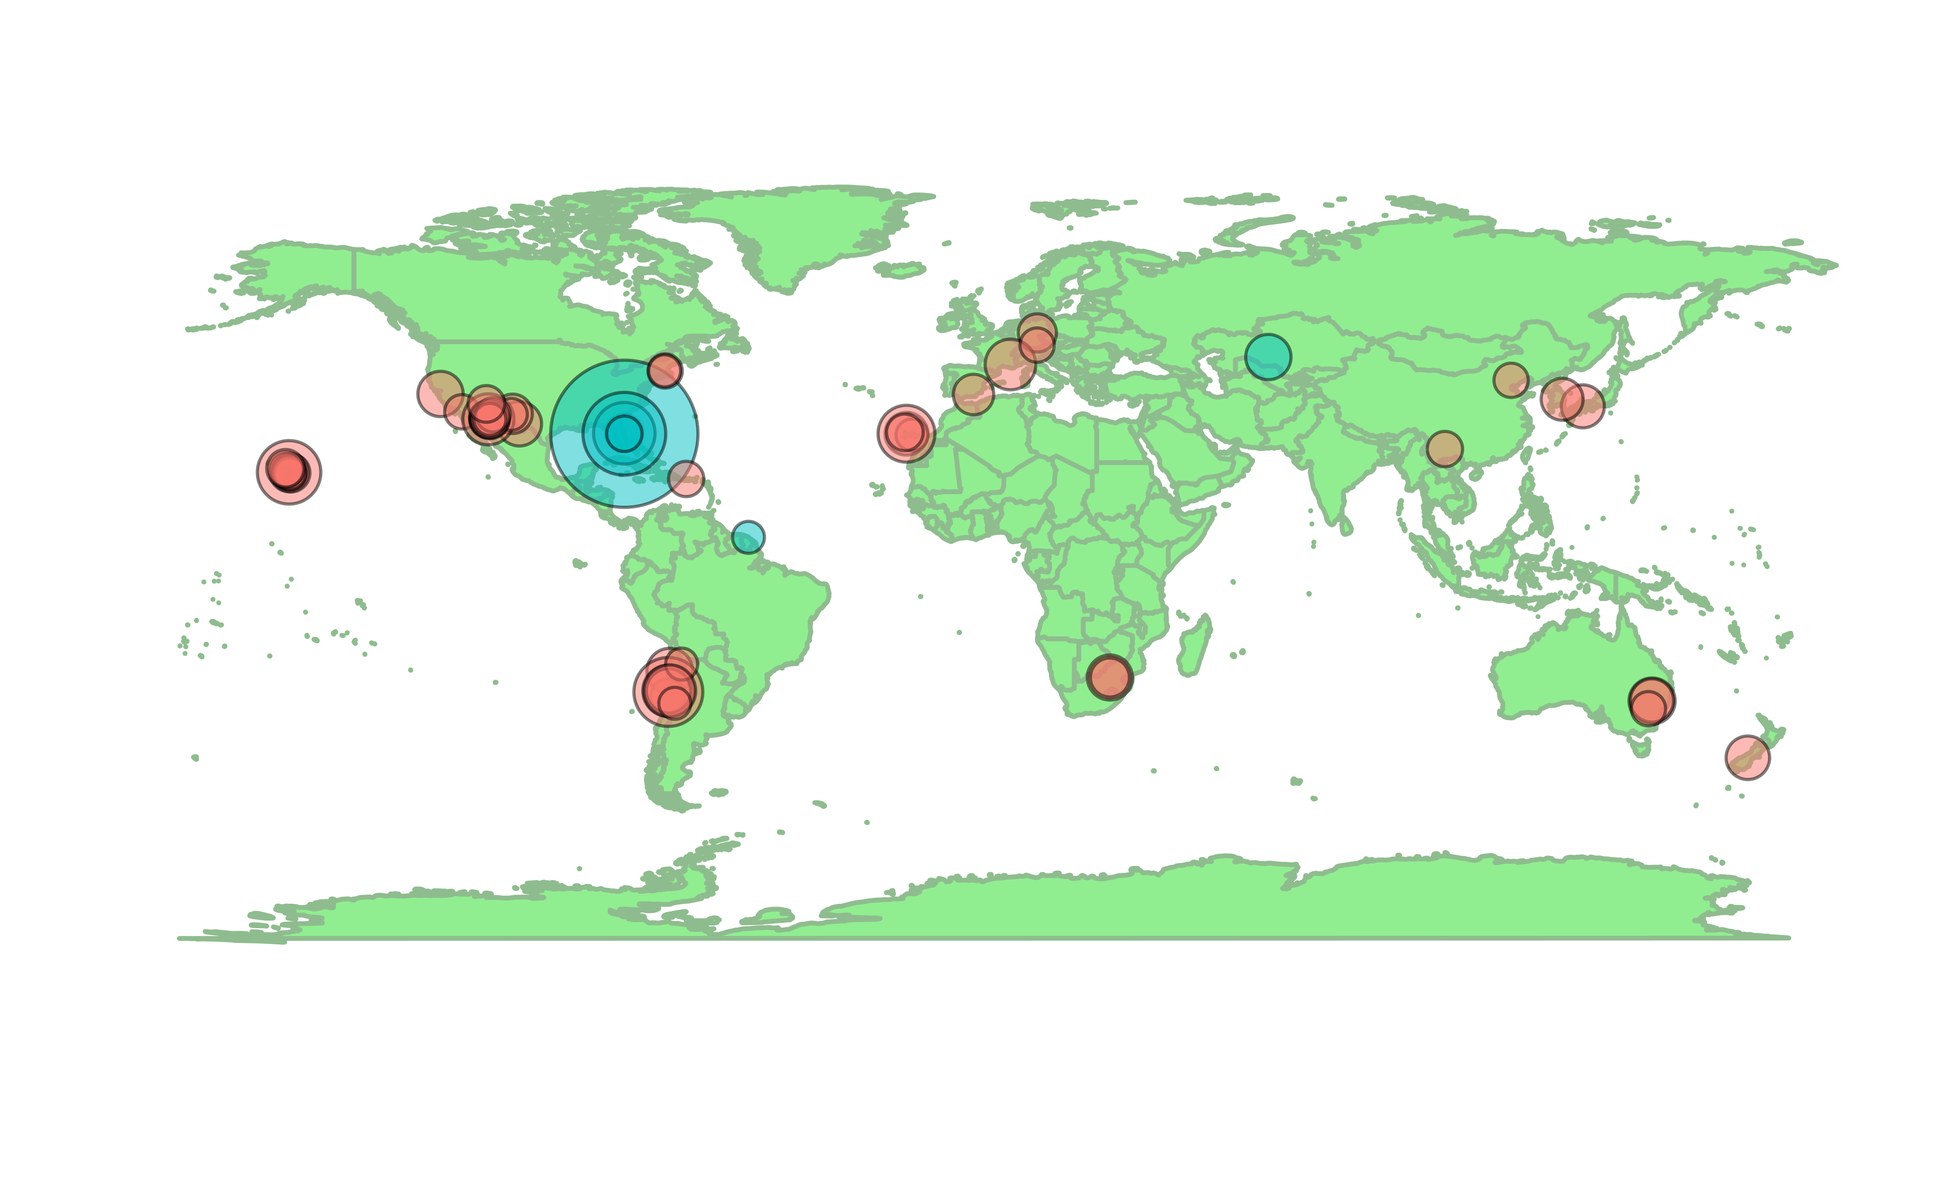
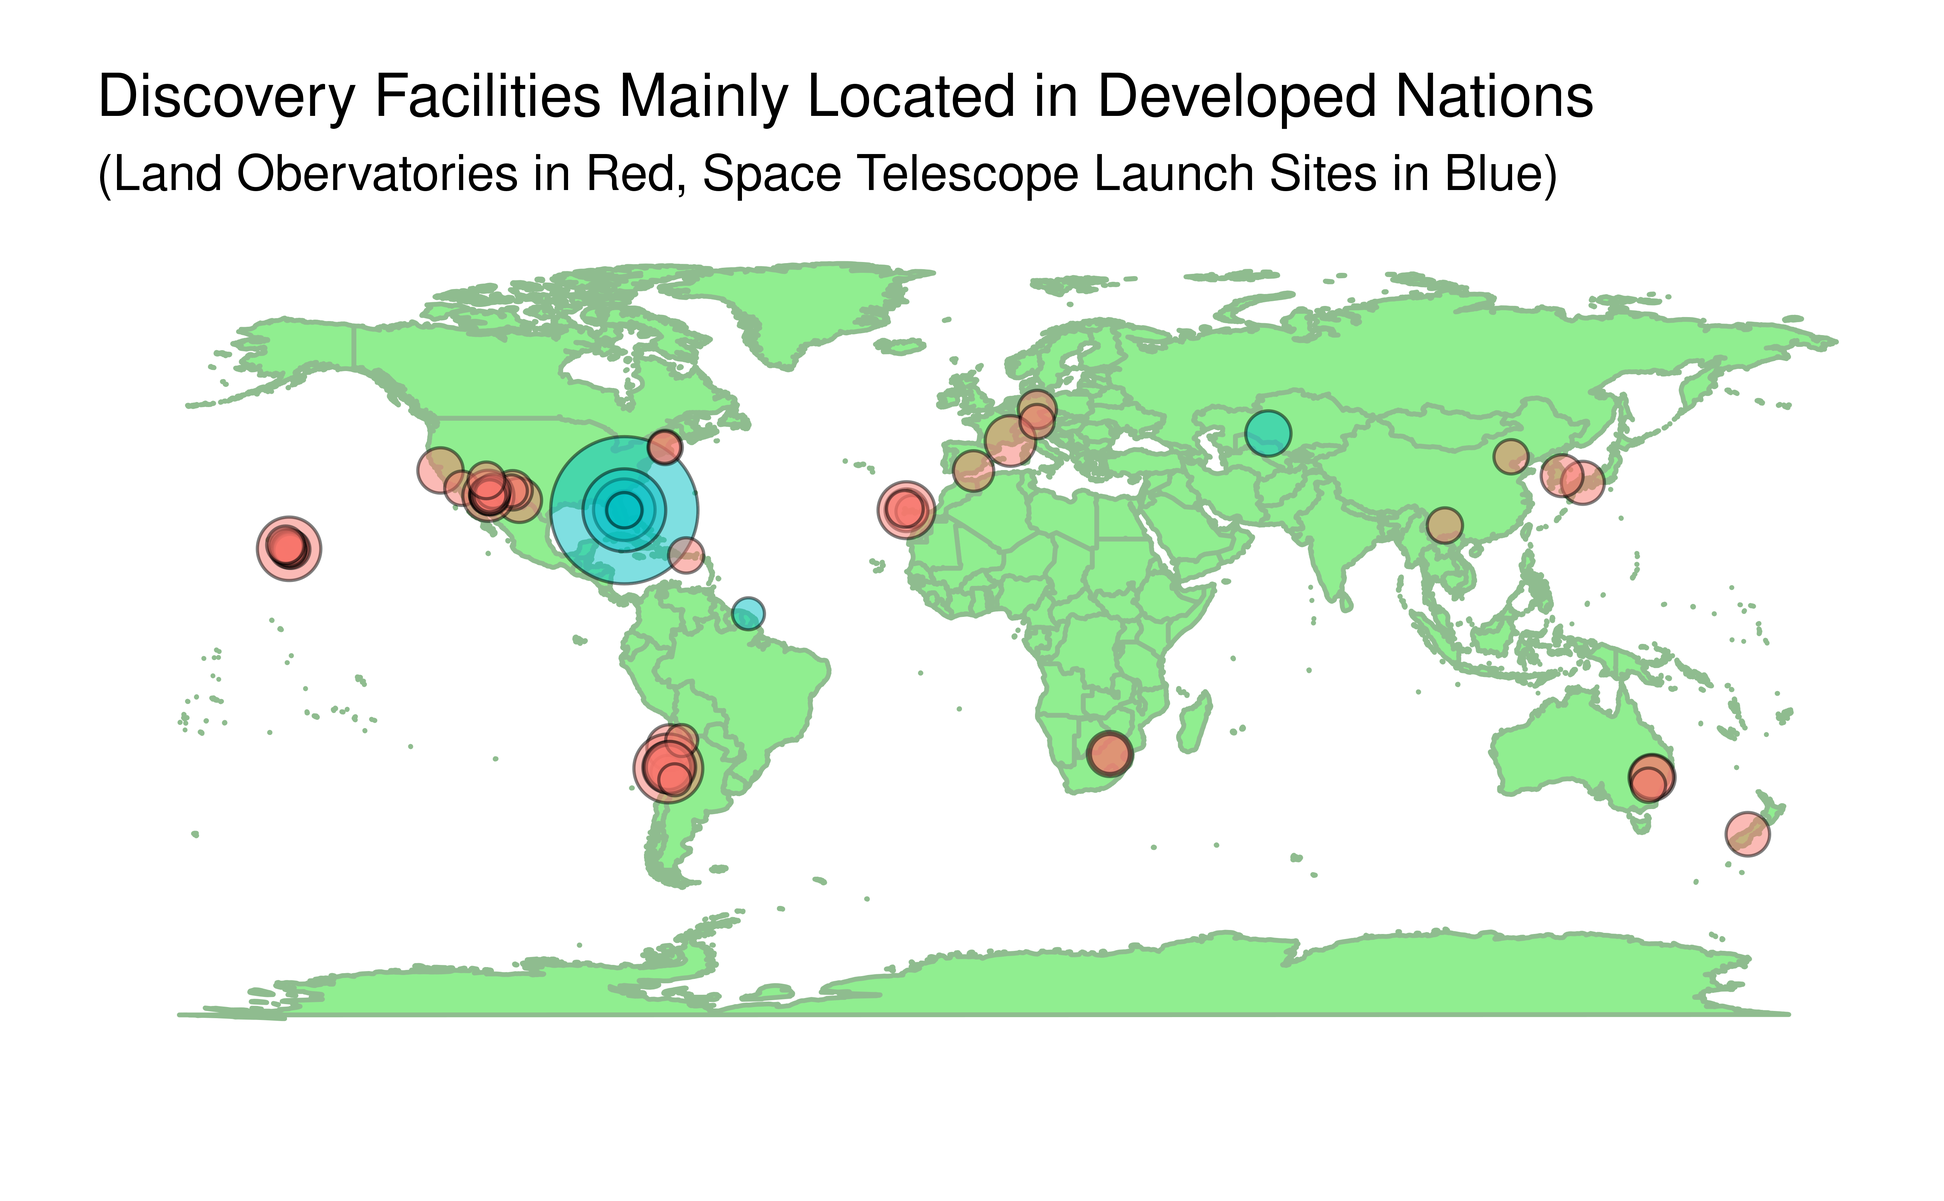
Add title and subtitle to still map of discovery facilities

Changed region(s): [[0.0311, 0.1247, 0.9644, 0.8726], [0.0311, 0.0623, 0.84, 0.0935], [0.0933, 0.5298, 0.1244, 0.561]]

diff --git a/presentation/presentation.html b/presentation/presentation.html
@@ -210,8 +210,8 @@ class: inverse, center, middle
 ### Interactive Leaflet Map: Location and Number of Discoveries
 
 
-<div id="htmlwidget-591cb61563aabd709545" style="width:80%;height:1112.4px;" class="leaflet html-widget"></div>
-<script type="application/json" data-for="htmlwidget-591cb61563aabd709545">{"x":{"options":{"crs":{"crsClass":"L.CRS.EPSG3857","code":null,"proj4def":null,"projectedBounds":null,"options":{}}},"setView":[[-13.7,13.3],2,[]],"calls":[{"method":"addProviderTiles","args":["Stamen.Terrain",null,null,{"errorTileUrl":"","noWrap":false,"detectRetina":false}]},{"method":"addProviderTiles","args":["Stamen.TerrainLabels",null,null,{"errorTileUrl":"","noWrap":false,"detectRetina":false}]},{"method":"addMarkers","args":[[40.394330134627,50.9823093448133,34.5767302555888,19.8270685845107,19.8229775354918,37.3423080349866,-24.6268823060177,-30.1695007214987,28.6079634925575,28.4474717430173,43.9308058574097,30.6795608260762,-31.2746493020385,36.1598186587657,28.5627384549851,28.4526812754127,28.4462638462353,-29.2602434546995,19.8265175567782,45.5918197922417,19.7010027063905,25.0342651999816,28.4473017303235,37.220249738126,31.6741500657667,32.901491596964,42.4765901547714,33.3580178182085,31.6757435837729,-29.0146168778156,31.9593530410288,-29.0137838130192,5.30206814980969,42.5047573431889,31.6743727981346,32.7794600408801,-23.02806564886,31.7133446008626,31.712647568798,31.7118553886947,-31.161743075369,32.7013183567328,-43.9714187075998,31.6654544209087,-29.0037710430654,48.2607978926208,18.3433867799481,-33.0118904852484,-31.7980525095527,19.8228226193078,35.1211635130891,19.491332116758,28.1807840996566,28.4541997908361,-26.0293980468192,28.7573290253028,-26.0308652069361,19.8230048740921,20.423953458813,20.7088840395419],[117.577478397051,11.7174066569531,133.594821487312,-155.468748187022,-155.478439963144,-121.637540389807,-70.3977206323818,-70.8062163259561,-80.5978030185815,-80.5662554353781,5.72010720769353,-104.025032183761,149.064358123683,128.970196376989,-80.5780015097804,-17.5233403665638,-80.5707100221308,-70.7232899764701,-155.46678339516,63.3304926639047,-155.092285918561,102.791849146862,-80.5592255255839,-2.55273246676456,-110.949663971132,-105.530047559439,-71.4539879923103,-116.869815839648,-110.943605565965,-70.6955076868016,-111.600402435639,-70.6979492393019,-52.8283627993608,-71.5577576803109,-110.94124290471,-105.82377293705,-67.7524489494678,-110.594261958375,-110.60924450315,-110.597412990881,149.029180053048,-109.881209224624,170.472867568248,-110.600988692533,-70.4099917943165,11.6741162253959,-66.7567220138621,148.265410061387,-69.3010833491519,-155.472424835583,-111.40238858399,-155.291145465739,-16.2946894550035,-17.5299557935707,27.9156556151878,-17.8926541684597,27.9330059571728,-155.472758111019,-156.159904300806,-156.255040028054],null,null,null,{"interactive":true,"draggable":false,"keyboard":true,"title":"","alt":"","zIndexOffset":0,"opacity":1,"riseOnHover":false,"riseOffset":250},["<strong>Xinglong Station<\/strong><br/>2 Discoveries<br/>Ownership: China<br/>Ownership Type: Public","<strong>Thueringer Landessternwarte Tautenburg<\/strong><br/>8 Discoveries<br/>Ownership: Germany<br/>Ownership Type: Public","<strong>Okayama Astrophysical Observatory<\/strong><br/>23 Discoveries<br/>Ownership: Japan<br/>Ownership Type: Public","<strong>W. M. Keck Observatory<\/strong><br/>180 Discoveries<br/>Ownership: United States<br/>Ownership Type: Public","<strong>Gemini Observatory<\/strong><br/>9 Discoveries<br/>Ownership: United States<br/>Ownership Type: Public","<strong>Lick Observatory<\/strong><br/>33 Discoveries<br/>Ownership: United States<br/>Ownership Type: Public","<strong>Paranal Observatory<\/strong><br/>36 Discoveries<br/>Ownership: Europe<br/>Ownership Type: Public","<strong>Cerro Tololo Inter-American Observatory<\/strong><br/>2 Discoveries<br/>Ownership: United States<br/>Ownership Type: Public","<strong>Hubble Space Telescope<\/strong><br/>6 Discoveries<br/>Ownership: United States<br/>Ownership Type: Public","<strong>Kepler<\/strong><br/>2402 Discoveries<br/>Ownership: United States<br/>Ownership Type: Public","<strong>Haute-Provence Observatory<\/strong><br/>64 Discoveries<br/>Ownership: France<br/>Ownership Type: Public","<strong>McDonald Observatory<\/strong><br/>29 Discoveries<br/>Ownership: United States<br/>Ownership Type: Private","<strong>Anglo-Australian Telescope<\/strong><br/>37 Discoveries<br/>Ownership: Australia<br/>Ownership Type: Public","<strong>Bohyunsan Optical Astronomical Observatory<\/strong><br/>19 Discoveries<br/>Ownership: South Korea<br/>Ownership Type: Public","<strong>Transiting Exoplanet Survey Satellite (TESS)<\/strong><br/>159 Discoveries<br/>Ownership: United States<br/>Ownership Type: Public","<strong>Roque de los Muchachos Observatory<\/strong><br/>22 Discoveries<br/>Ownership: Spain<br/>Ownership Type: Public","<strong>K2<\/strong><br/>467 Discoveries<br/>Ownership: United States<br/>Ownership Type: Public","<strong>La Silla Observatory<\/strong><br/>247 Discoveries<br/>Ownership: Europe<br/>Ownership Type: Public","<strong>NASA Infrared Telescope Facility (IRTF)<\/strong><br/>1 Discoveries<br/>Ownership: United States<br/>Ownership Type: Public","<strong>CoRoT<\/strong><br/>33 Discoveries<br/>Ownership: Europe<br/>Ownership Type: Public","<strong>Subaru Telescope<\/strong><br/>8 Discoveries<br/>Ownership: Japan<br/>Ownership Type: Public","<strong>Yunnan Astronomical Observatory<\/strong><br/>3 Discoveries<br/>Ownership: China<br/>Ownership Type: Public","<strong>Spitzer Space Telescope<\/strong><br/>3 Discoveries<br/>Ownership: United States<br/>Ownership Type: Public","<strong>Calar Alto Observatory<\/strong><br/>14 Discoveries<br/>Ownership: Spain<br/>Ownership Type: Public","<strong>MEarth Project<\/strong><br/>2 Discoveries<br/>Ownership: United States<br/>Ownership Type: Public","<strong>Qatar<\/strong><br/>11 Discoveries<br/>Ownership: Qatar<br/>Ownership Type: Public","<strong>Acton Sky Portal Observatory<\/strong><br/>2 Discoveries<br/>Ownership: United States<br/>Ownership Type: Private","<strong>Palomar Observatory<\/strong><br/>2 Discoveries<br/>Ownership: United States<br/>Ownership Type: Private","<strong>HATNet<\/strong><br/>67 Discoveries<br/>Ownership: United States<br/>Ownership Type: Public","<strong>HATSouth<\/strong><br/>69 Discoveries<br/>Ownership: United States<br/>Ownership Type: Public","<strong>Kitt Peak National Observatory<\/strong><br/>1 Discoveries<br/>Ownership: United States<br/>Ownership Type: Public","<strong>Las Campanas Observatory<\/strong><br/>29 Discoveries<br/>Ownership: United States<br/>Ownership Type: Public","<strong>CHaracterising ExOPlanets Satellite (CHEOPS)<\/strong><br/>1 Discoveries<br/>Ownership: Europe<br/>Ownership Type: Public","<strong>Oak Ridge Observatory<\/strong><br/>1 Discoveries<br/>Ownership: United States<br/>Ownership Type: Private","<strong>Fred Lawrence Whipple Observatory<\/strong><br/>6 Discoveries<br/>Ownership: United States<br/>Ownership Type: Private","<strong>Apache Point Observatory<\/strong><br/>1 Discoveries<br/>Ownership: United States<br/>Ownership Type: Public","<strong>Atacama Large Millimeter Array (ALMA)<\/strong><br/>1 Discoveries<br/>Ownership: Europe<br/>Ownership Type: Public","<strong>KELT<\/strong><br/>10 Discoveries<br/>Ownership: United States<br/>Ownership Type: Private","<strong>KELT-South<\/strong><br/>4 Discoveries<br/>Ownership: United States<br/>Ownership Type: Private","<strong>KELT-North<\/strong><br/>7 Discoveries<br/>Ownership: United States<br/>Ownership Type: Private","<strong>KMTNet<\/strong><br/>24 Discoveries<br/>Ownership: South Korea<br/>Ownership Type: Private","<strong>Large Binocular Telescope Observatory<\/strong><br/>2 Discoveries<br/>Ownership: United States<br/>Ownership Type: Private","<strong>MOA<\/strong><br/>25 Discoveries<br/>Ownership: New Zealand<br/>Ownership Type: Public","<strong>Winer Observatory<\/strong><br/>1 Discoveries<br/>Ownership: United States<br/>Ownership Type: Private","<strong>OGLE<\/strong><br/>72 Discoveries<br/>Ownership: Poland<br/>Ownership Type: Public","<strong>European Southern Observatory<\/strong><br/>2 Discoveries<br/>Ownership: Europe<br/>Ownership Type: Public","<strong>Arecibo Observatory<\/strong><br/>3 Discoveries<br/>Ownership: United States<br/>Ownership Type: Public","<strong>Parkes Observatory<\/strong><br/>2 Discoveries<br/>Ownership: Australia<br/>Ownership Type: Public","<strong>Leoncito Astronomical Complex<\/strong><br/>1 Discoveries<br/>Ownership: United States<br/>Ownership Type: Public","<strong>Infrared Survey Facility<\/strong><br/>1 Discoveries<br/>Ownership: United Kingdom<br/>Ownership Type: Public","<strong>TrES<\/strong><br/>5 Discoveries<br/>Ownership: United States<br/>Ownership Type: Public","<strong>Mauna Kea Observatory<\/strong><br/>1 Discoveries<br/>Ownership: United States<br/>Ownership Type: Public","<strong>Teide Observatory<\/strong><br/>1 Discoveries<br/>Ownership: Spain<br/>Ownership Type: Public","<strong>SuperWASP<\/strong><br/>113 Discoveries<br/>Ownership: United Kingdom<br/>Ownership Type: Public","<strong>SuperWASP-South<\/strong><br/>32 Discoveries<br/>Ownership: United Kingdom<br/>Ownership Type: Public","<strong>SuperWASP-North<\/strong><br/>5 Discoveries<br/>Ownership: United Kingdom<br/>Ownership Type: Public","<strong>WASP-South<\/strong><br/>10 Discoveries<br/>Ownership: United Kingdom<br/>Ownership Type: Public","<strong>United Kingdom Infrared Telescope<\/strong><br/>2 Discoveries<br/>Ownership: United Kingdom<br/>Ownership Type: Public","<strong>Haleakala Observatory<\/strong><br/>2 Discoveries<br/>Ownership: United States<br/>Ownership Type: Public","<strong>XO<\/strong><br/>7 Discoveries<br/>Ownership: United States<br/>Ownership Type: Public"],null,null,null,null,{"interactive":false,"permanent":false,"direction":"auto","opacity":1,"offset":[0,0],"textsize":"10px","textOnly":false,"className":"","sticky":true},null]}],"limits":{"lat":[-43.9714187075998,50.9823093448133],"lng":[-156.255040028054,170.472867568248]}},"evals":[],"jsHooks":[]}</script>
+<div id="htmlwidget-b51155a7b99cf3251835" style="width:80%;height:1112.4px;" class="leaflet html-widget"></div>
+<script type="application/json" data-for="htmlwidget-b51155a7b99cf3251835">{"x":{"options":{"crs":{"crsClass":"L.CRS.EPSG3857","code":null,"proj4def":null,"projectedBounds":null,"options":{}}},"setView":[[-13.7,13.3],2,[]],"calls":[{"method":"addProviderTiles","args":["Stamen.Terrain",null,null,{"errorTileUrl":"","noWrap":false,"detectRetina":false}]},{"method":"addProviderTiles","args":["Stamen.TerrainLabels",null,null,{"errorTileUrl":"","noWrap":false,"detectRetina":false}]},{"method":"addMarkers","args":[[40.3951205108879,50.9820823867624,34.5767275764289,19.8266166317478,19.8242418742385,37.3406379389342,-24.6280421865958,-30.1697048314394,28.608334997675,28.4465058349244,43.9309520082706,30.6804985956363,-31.2762536038715,36.1613166035887,28.5614008961307,28.4523918501933,28.4458184132151,-29.2618504488795,19.8262390230806,45.5925063799065,19.7023667027872,25.0339846881576,28.4474082885719,37.221337372268,31.6750059846352,32.9022885068774,42.4773173475705,33.3565933352287,31.6757037639586,-29.0145428335349,31.9590672614055,-29.0155881216297,5.30158607844772,42.504886565988,31.6751071807501,32.7794552915228,-23.0287443675936,31.7127008387449,31.7131023650787,31.711855517783,-31.1607117483156,32.7009327598204,-43.9708731772433,31.6651697770318,-29.0045211110864,48.2594008499472,18.3437710542636,-33.0108478845077,-31.7988885358254,19.8215056316843,35.1209305819678,19.4912983872355,28.1804297182146,28.4538436718185,-26.0300517120052,28.7574493317439,-26.0308428664969,19.8228205811544,20.422657470047,20.7085421329459],[117.584652783568,11.7166763206121,133.585673955834,-155.475845094942,-155.466019621398,-121.644210885763,-70.41028958778,-70.8127444578388,-80.5976959263202,-80.5624648171829,5.70924103844854,-104.032914132206,149.07599310953,128.975916299421,-80.5864064817934,-17.5378804848874,-80.5679583410898,-70.7228551705609,-155.465885957379,63.3243422328118,-155.083751104214,102.779066303949,-80.5672965487352,-2.55417645138018,-110.949962673993,-105.537160149118,-71.4590175722375,-116.862266774515,-110.956912916853,-70.6908097100047,-111.597028395177,-70.6942493767081,-52.8371085184574,-71.5540063346615,-110.952350786389,-105.827699686112,-67.7617722246595,-110.60145414575,-110.604121275968,-110.592229928509,149.035658318954,-109.881746841337,170.461771465317,-110.608202838911,-70.4241503056738,11.6624333503001,-66.7510273621327,148.263837755026,-69.2976654473081,-155.467151026658,-111.39357461987,-155.291034465755,-16.2997230660254,-17.5286511574062,27.9268452135684,-17.8883970177715,27.9170907797037,-155.466274712851,-156.149205527713,-156.263938636794],null,null,null,{"interactive":true,"draggable":false,"keyboard":true,"title":"","alt":"","zIndexOffset":0,"opacity":1,"riseOnHover":false,"riseOffset":250},["<strong>Xinglong Station<\/strong><br/>2 Discoveries<br/>Ownership: China<br/>Ownership Type: Public","<strong>Thueringer Landessternwarte Tautenburg<\/strong><br/>8 Discoveries<br/>Ownership: Germany<br/>Ownership Type: Public","<strong>Okayama Astrophysical Observatory<\/strong><br/>23 Discoveries<br/>Ownership: Japan<br/>Ownership Type: Public","<strong>W. M. Keck Observatory<\/strong><br/>180 Discoveries<br/>Ownership: United States<br/>Ownership Type: Public","<strong>Gemini Observatory<\/strong><br/>9 Discoveries<br/>Ownership: United States<br/>Ownership Type: Public","<strong>Lick Observatory<\/strong><br/>33 Discoveries<br/>Ownership: United States<br/>Ownership Type: Public","<strong>Paranal Observatory<\/strong><br/>36 Discoveries<br/>Ownership: Europe<br/>Ownership Type: Public","<strong>Cerro Tololo Inter-American Observatory<\/strong><br/>2 Discoveries<br/>Ownership: United States<br/>Ownership Type: Public","<strong>Hubble Space Telescope<\/strong><br/>6 Discoveries<br/>Ownership: United States<br/>Ownership Type: Public","<strong>Kepler<\/strong><br/>2402 Discoveries<br/>Ownership: United States<br/>Ownership Type: Public","<strong>Haute-Provence Observatory<\/strong><br/>64 Discoveries<br/>Ownership: France<br/>Ownership Type: Public","<strong>McDonald Observatory<\/strong><br/>29 Discoveries<br/>Ownership: United States<br/>Ownership Type: Private","<strong>Anglo-Australian Telescope<\/strong><br/>37 Discoveries<br/>Ownership: Australia<br/>Ownership Type: Public","<strong>Bohyunsan Optical Astronomical Observatory<\/strong><br/>19 Discoveries<br/>Ownership: South Korea<br/>Ownership Type: Public","<strong>Transiting Exoplanet Survey Satellite (TESS)<\/strong><br/>159 Discoveries<br/>Ownership: United States<br/>Ownership Type: Public","<strong>Roque de los Muchachos Observatory<\/strong><br/>22 Discoveries<br/>Ownership: Spain<br/>Ownership Type: Public","<strong>K2<\/strong><br/>467 Discoveries<br/>Ownership: United States<br/>Ownership Type: Public","<strong>La Silla Observatory<\/strong><br/>247 Discoveries<br/>Ownership: Europe<br/>Ownership Type: Public","<strong>NASA Infrared Telescope Facility (IRTF)<\/strong><br/>1 Discoveries<br/>Ownership: United States<br/>Ownership Type: Public","<strong>CoRoT<\/strong><br/>33 Discoveries<br/>Ownership: Europe<br/>Ownership Type: Public","<strong>Subaru Telescope<\/strong><br/>8 Discoveries<br/>Ownership: Japan<br/>Ownership Type: Public","<strong>Yunnan Astronomical Observatory<\/strong><br/>3 Discoveries<br/>Ownership: China<br/>Ownership Type: Public","<strong>Spitzer Space Telescope<\/strong><br/>3 Discoveries<br/>Ownership: United States<br/>Ownership Type: Public","<strong>Calar Alto Observatory<\/strong><br/>14 Discoveries<br/>Ownership: Spain<br/>Ownership Type: Public","<strong>MEarth Project<\/strong><br/>2 Discoveries<br/>Ownership: United States<br/>Ownership Type: Public","<strong>Qatar<\/strong><br/>11 Discoveries<br/>Ownership: Qatar<br/>Ownership Type: Public","<strong>Acton Sky Portal Observatory<\/strong><br/>2 Discoveries<br/>Ownership: United States<br/>Ownership Type: Private","<strong>Palomar Observatory<\/strong><br/>2 Discoveries<br/>Ownership: United States<br/>Ownership Type: Private","<strong>HATNet<\/strong><br/>67 Discoveries<br/>Ownership: United States<br/>Ownership Type: Public","<strong>HATSouth<\/strong><br/>69 Discoveries<br/>Ownership: United States<br/>Ownership Type: Public","<strong>Kitt Peak National Observatory<\/strong><br/>1 Discoveries<br/>Ownership: United States<br/>Ownership Type: Public","<strong>Las Campanas Observatory<\/strong><br/>29 Discoveries<br/>Ownership: United States<br/>Ownership Type: Public","<strong>CHaracterising ExOPlanets Satellite (CHEOPS)<\/strong><br/>1 Discoveries<br/>Ownership: Europe<br/>Ownership Type: Public","<strong>Oak Ridge Observatory<\/strong><br/>1 Discoveries<br/>Ownership: United States<br/>Ownership Type: Private","<strong>Fred Lawrence Whipple Observatory<\/strong><br/>6 Discoveries<br/>Ownership: United States<br/>Ownership Type: Private","<strong>Apache Point Observatory<\/strong><br/>1 Discoveries<br/>Ownership: United States<br/>Ownership Type: Public","<strong>Atacama Large Millimeter Array (ALMA)<\/strong><br/>1 Discoveries<br/>Ownership: Europe<br/>Ownership Type: Public","<strong>KELT<\/strong><br/>10 Discoveries<br/>Ownership: United States<br/>Ownership Type: Private","<strong>KELT-South<\/strong><br/>4 Discoveries<br/>Ownership: United States<br/>Ownership Type: Private","<strong>KELT-North<\/strong><br/>7 Discoveries<br/>Ownership: United States<br/>Ownership Type: Private","<strong>KMTNet<\/strong><br/>24 Discoveries<br/>Ownership: South Korea<br/>Ownership Type: Private","<strong>Large Binocular Telescope Observatory<\/strong><br/>2 Discoveries<br/>Ownership: United States<br/>Ownership Type: Private","<strong>MOA<\/strong><br/>25 Discoveries<br/>Ownership: New Zealand<br/>Ownership Type: Public","<strong>Winer Observatory<\/strong><br/>1 Discoveries<br/>Ownership: United States<br/>Ownership Type: Private","<strong>OGLE<\/strong><br/>72 Discoveries<br/>Ownership: Poland<br/>Ownership Type: Public","<strong>European Southern Observatory<\/strong><br/>2 Discoveries<br/>Ownership: Europe<br/>Ownership Type: Public","<strong>Arecibo Observatory<\/strong><br/>3 Discoveries<br/>Ownership: United States<br/>Ownership Type: Public","<strong>Parkes Observatory<\/strong><br/>2 Discoveries<br/>Ownership: Australia<br/>Ownership Type: Public","<strong>Leoncito Astronomical Complex<\/strong><br/>1 Discoveries<br/>Ownership: United States<br/>Ownership Type: Public","<strong>Infrared Survey Facility<\/strong><br/>1 Discoveries<br/>Ownership: United Kingdom<br/>Ownership Type: Public","<strong>TrES<\/strong><br/>5 Discoveries<br/>Ownership: United States<br/>Ownership Type: Public","<strong>Mauna Kea Observatory<\/strong><br/>1 Discoveries<br/>Ownership: United States<br/>Ownership Type: Public","<strong>Teide Observatory<\/strong><br/>1 Discoveries<br/>Ownership: Spain<br/>Ownership Type: Public","<strong>SuperWASP<\/strong><br/>113 Discoveries<br/>Ownership: United Kingdom<br/>Ownership Type: Public","<strong>SuperWASP-South<\/strong><br/>32 Discoveries<br/>Ownership: United Kingdom<br/>Ownership Type: Public","<strong>SuperWASP-North<\/strong><br/>5 Discoveries<br/>Ownership: United Kingdom<br/>Ownership Type: Public","<strong>WASP-South<\/strong><br/>10 Discoveries<br/>Ownership: United Kingdom<br/>Ownership Type: Public","<strong>United Kingdom Infrared Telescope<\/strong><br/>2 Discoveries<br/>Ownership: United Kingdom<br/>Ownership Type: Public","<strong>Haleakala Observatory<\/strong><br/>2 Discoveries<br/>Ownership: United States<br/>Ownership Type: Public","<strong>XO<\/strong><br/>7 Discoveries<br/>Ownership: United States<br/>Ownership Type: Public"],null,null,null,null,{"interactive":false,"permanent":false,"direction":"auto","opacity":1,"offset":[0,0],"textsize":"10px","textOnly":false,"className":"","sticky":true},null]}],"limits":{"lat":[-43.9708731772433,50.9820823867624],"lng":[-156.263938636794,170.461771465317]}},"evals":[],"jsHooks":[]}</script>
 
 ---
 
